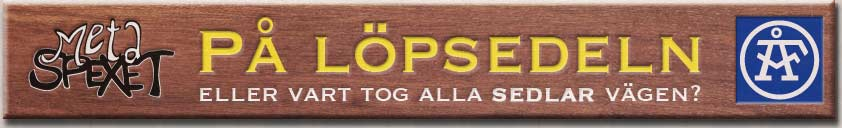
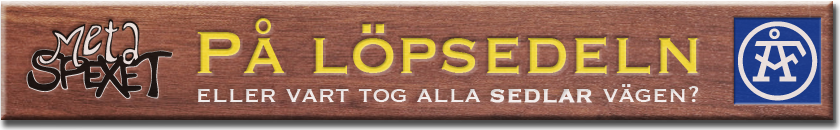
Update header image

diff --git a/style.css b/style.css
@@ -263,8 +263,8 @@ h1, h2, h3, h4, h5, h6 {
 }
 
 #header {
-    width:          842px;
-    height:         128px;
+    width:          840px;
+    height:         130px;
     margin:         0 auto;
     margin-top:     30px;
     background:     url("./img/header.png") no-repeat;
